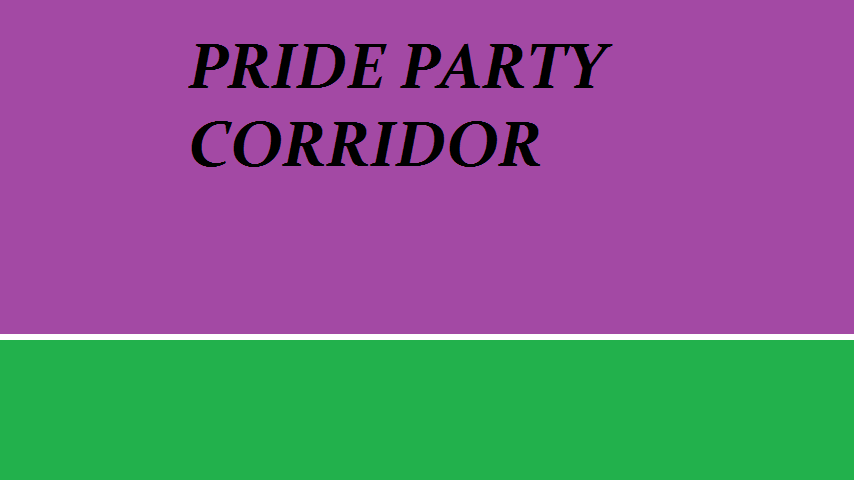
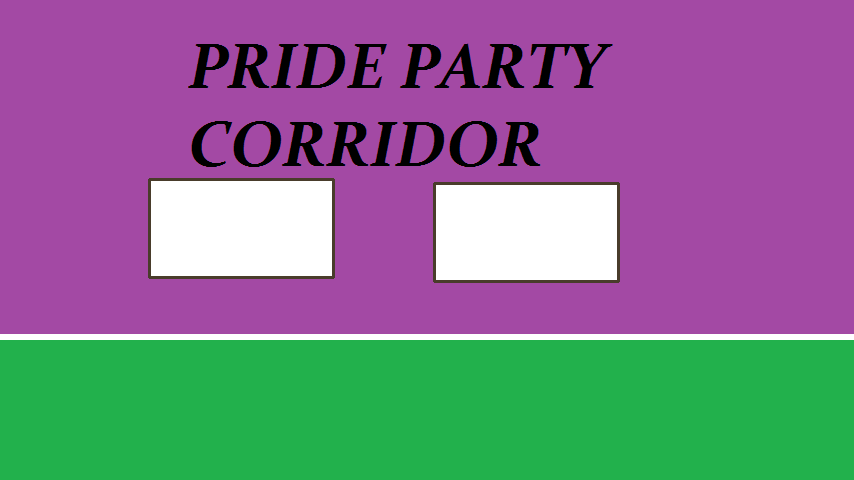
Added huge windows with a nice view

Changed region(s): [[0.1522, 0.3438, 0.3958, 0.5938], [0.4871, 0.375, 0.7307, 0.5938]]

diff --git a/src/level.js b/src/level.js
@@ -6,6 +6,7 @@ import Debate from './debate'
 export default class Level {
   constructor(game) {
     this.game = game
+
     this.background = 'baseCorridor'
     this.onLevelComplete = new Phaser.Signal()
 
@@ -19,6 +20,8 @@ export default class Level {
     this.backGroup = this.game.add.group()
     this.midGroup = this.game.add.group()
 
+    this.sky = game.add.tileSprite(0, 0, 854, 480, 'sky')
+    this.backGroup.add(this.sky)
     this.backGroup.create(0, 0, this.background)
 
     this.inElevator = new Elevator(game, 100, 341, this.backGroup, this.midGroup)
@@ -69,5 +72,6 @@ export default class Level {
 
   update() {
     this.midGroup.sort('y', Phaser.Group.SORT_DECENDING)
+    this.sky.tilePosition.x += 1
   }
 }

diff --git a/src/splash.js b/src/splash.js
@@ -10,6 +10,7 @@ export default class extends Phaser.State {
     this.load.image('tnsLogo', './assets/images/tns-logo.png')
     this.load.image('playBtn', './assets/images/play-button.png')
     this.load.image('menuBackground', './assets/images/menu-background.png')
+    this.load.image('sky', './assets/images/sky.png')
     this.load.image('baseCorridor', './assets/images/base-corridor.png')
     this.load.image('prideCorridor', './assets/images/pride-corridor.png')
     this.load.image('kkkCorridor', './assets/images/kkk-corridor.png')
